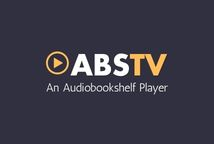
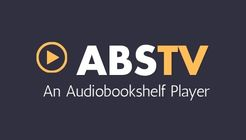
Changes required for Roku channel certification. Login modified to use StandardKeyboardDialog instead of deprecated KeyboardDialog. Updated SD channel and splash graphics that were the incorrect size. Added required memory monitor code. With these changes the Roku static analysis verification check 

Changed region(s): [[0.1402, 0.2857, 0.8692, 0.7143]]

diff --git a/TERMS-OF-USE.md b/TERMS-OF-USE.md
@@ -1,0 +1,43 @@
+# Terms Of Use
+
+These Terms Of Use apply to ABSTV, an unofficial Roku client for connecting to an Audiobookshelf server that you provide.
+
+## Use Of The App
+
+ABSTV is provided so you can access audiobook content from an Audiobookshelf server that you are authorized to use. You are responsible for the server URL, account credentials, libraries, media files, and network connection used with the app.
+
+You agree to use ABSTV only with content and servers that you have the right to access.
+
+## No Hosted Service
+
+ABSTV does not provide, host, sell, or distribute audiobook content. The app only connects to the Audiobookshelf server that you configure.
+
+ABSTV is not affiliated with, endorsed by, or sponsored by Audiobookshelf or Roku.
+
+## Account And Server Responsibility
+
+You are responsible for maintaining your Audiobookshelf server, account, password, tokens, media library, and server security. ABSTV cannot recover your Audiobookshelf account or media files.
+
+If you use a server operated by someone else, your access to that server is governed by that server operator's rules and policies.
+
+## Privacy
+
+ABSTV's handling of server URLs, credentials, session data, playback progress, diagnostics, and related information is described in the [Privacy Policy](PRIVACY-POLICY.md).
+
+## Availability And Changes
+
+ABSTV is provided as-is and may change, stop working, or become incompatible with future versions of Roku OS, Audiobookshelf, or your server configuration.
+
+Features may be added, changed, or removed at any time.
+
+## No Warranty
+
+ABSTV is provided without warranties of any kind, express or implied. This includes warranties of merchantability, fitness for a particular purpose, non-infringement, availability, accuracy, or error-free operation.
+
+## Limitation Of Liability
+
+To the maximum extent permitted by law, the maintainer or publisher of ABSTV is not liable for damages, data loss, service interruption, account issues, server issues, media library issues, or other losses related to use of the app.
+
+## Contact
+
+For questions about these Terms Of Use, contact the maintainer or publisher of the ABSTV Roku channel.

diff --git a/PRIVACY-POLICY.md b/PRIVACY-POLICY.md
@@ -1,0 +1,35 @@
+# Privacy Policy
+
+ABSTV is an unofficial Roku client for connecting to an Audiobookshelf server that you provide.
+
+## Data You Enter
+
+ABSTV asks for your Audiobookshelf server URL, username, and password so it can sign in to your server. The app sends those credentials only to the Audiobookshelf server URL that you enter.
+
+## Data Stored On Your Roku Device
+
+ABSTV stores session information on your Roku device so you do not need to sign in every time you open the app. This includes your server URL, username, authentication token, and application  settings.
+
+Your Audiobookshelf password is not stored after sign-in. If you log out, ABSTV clears the saved session information used by the app.
+
+## Data Sent To Your Audiobookshelf Server
+
+ABSTV communicates with your configured Audiobookshelf server to load libraries, audiobook metadata, covers, chapters, playback sessions, and playback progress. This includes audiobook titles, authors, descriptions, cover requests, playback position, and other metadata returned by your server.
+
+ABSTV does not send this information to any server other than the Audiobookshelf server URL that you configure.
+
+## Diagnostics And Logs
+
+ABSTV writes diagnostic information to the Roku debug log while the app is running. Logs can include request URLs, status messages, cache sizes, playback details, and error information useful for troubleshooting.
+
+These logs stay on your Roku device unless you or a developer with access to your Roku debugging session views or shares them.
+
+## Third Parties
+
+ABSTV does not sell personal information, does not use advertising trackers, and does not send analytics to third-party services.
+
+Your Audiobookshelf server is operated by you or by whoever provides the server you choose to use. Data handled by that server is governed by that server's configuration and policies.
+
+## Contact
+
+For questions about this privacy policy, contact the maintainer or publisher of the ABSTV Roku channel.
